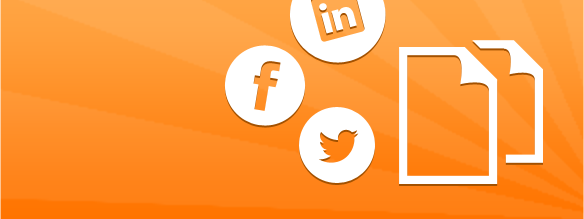
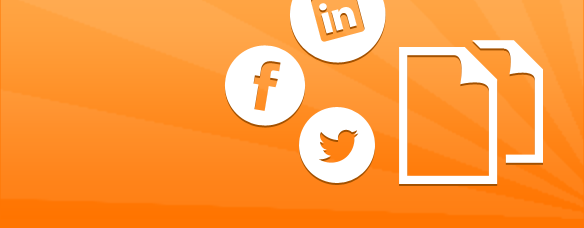
Fixed background position for Sprites

diff --git a/public/stylesheets/_base.scss b/public/stylesheets/_base.scss
@@ -26,9 +26,9 @@ $image-list: (applidget, blogs, contact, events, team, technologies);  // TODO(s
   $width: image-width(sprite-file($sprites, $name));
   $height: image-height(sprite-file($sprites, $name));
 
-  @include background-size(ceil($spriteWidth * $percent) ceil($spriteHeight * $percent));
-  width: ceil($width * $percent);
-  height: ceil($height * $percent);
+  @include background-size(floor($spriteWidth * $percent) floor($spriteHeight * $percent));
+  width: floor($width * $percent);
+  height: floor($height * $percent) - 1; // -1 to make sure the background fits in the block because of its rounded position
   background-position: 0 floor(nth(sprite-position($sprites, $name), 2) * $percent);
 
   // Retina
@@ -38,8 +38,8 @@ $image-list: (applidget, blogs, contact, events, team, technologies);  // TODO(s
       $position2x: sprite-position($sprites2x, $name);
 
       @if ($position != $position2x / 2) {
-        $xpos: nth(sprite-position($sprites2x, $name), 1) * $percent / 2;
-        $ypos: nth(sprite-position($sprites2x, $name), 2) * $percent / 2;
+        $xpos: floor(nth(sprite-position($sprites2x, $name), 1) * $percent / 2);
+        $ypos: floor(nth(sprite-position($sprites2x, $name), 2) * $percent / 2);
         background-position: $xpos $ypos;
       }
 
